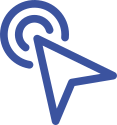
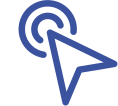
UPD - Se añade padding a la imagen web2
upd

diff --git a/index.html b/index.html
@@ -88,11 +88,26 @@
                                                         </td>
                                                     </tr>
                                                     <tr>
+                                                        
                                                         <td><img src="https://raw.githubusercontent.com/MauroNimbutech/firma-nimbutech/refs/heads/Version2/img/web.png"
-                                                                alt="" width="15"></td>
-                                                        <td><a href="www.nimbutech.com"
-                                                                style="font-weight: 500; font-size: 8; text-decoration: none; color: black;" target="_blank">www.nimbutech.com</a>
+                                                            alt="" width="15"></td>
+                                                        
+                                                        <td>
+                                                            <table cellspacing="0" cellpadding="0">
+                                                                <tr>
+                                                                    <td>                                                        <td><a href="www.nimbutech.com"
+                                                                        style="font-weight: 500; font-size: 8; text-decoration: none; color: black;" target="_blank">www.nimbutech.com</a>
+                                                                    </td>                                                                                                                       
+                                                                    <td>
+
+                                                                        <img src="https://raw.githubusercontent.com/MauroNimbutech/firma-nimbutech/refs/heads/Version2/img/web2.png" alt="web2"
+                                                                        
+                                                                        width="15">
+                                                                    </td>
+                                                                </tr>
+                                                            </table>
                                                         </td>
+
                                                     </tr>
                                                 </table>
                                             </td>
@@ -106,7 +121,7 @@
             </tr>
             <tr id="socialM">
                 <td width="180">
-                    <table width="180">
+                    <table width="18">
                         <tr>
                             <td>
                                 <table id="nimbutech+icons" width="120" style="margin: 0 auto; text-align: center;"
